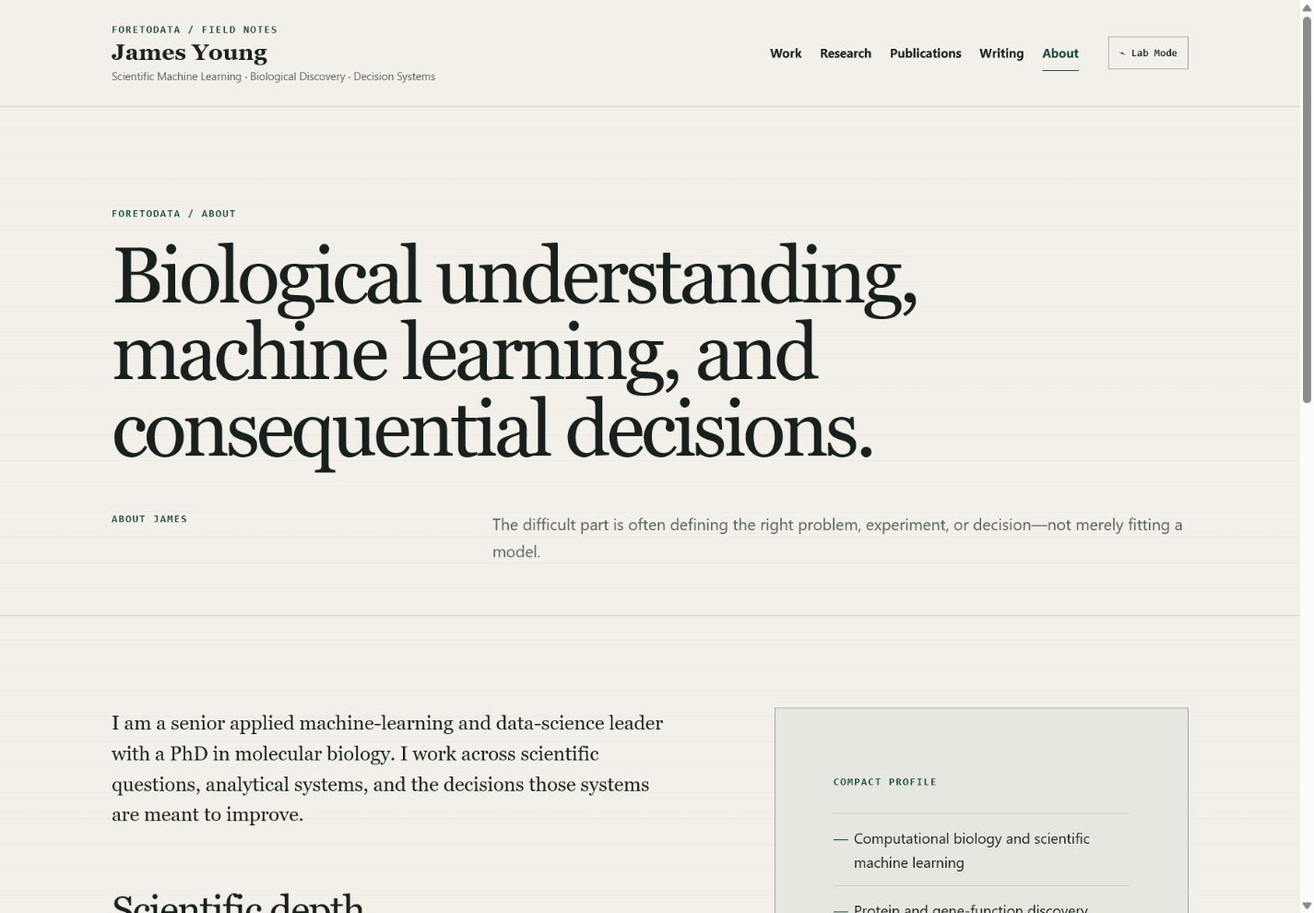
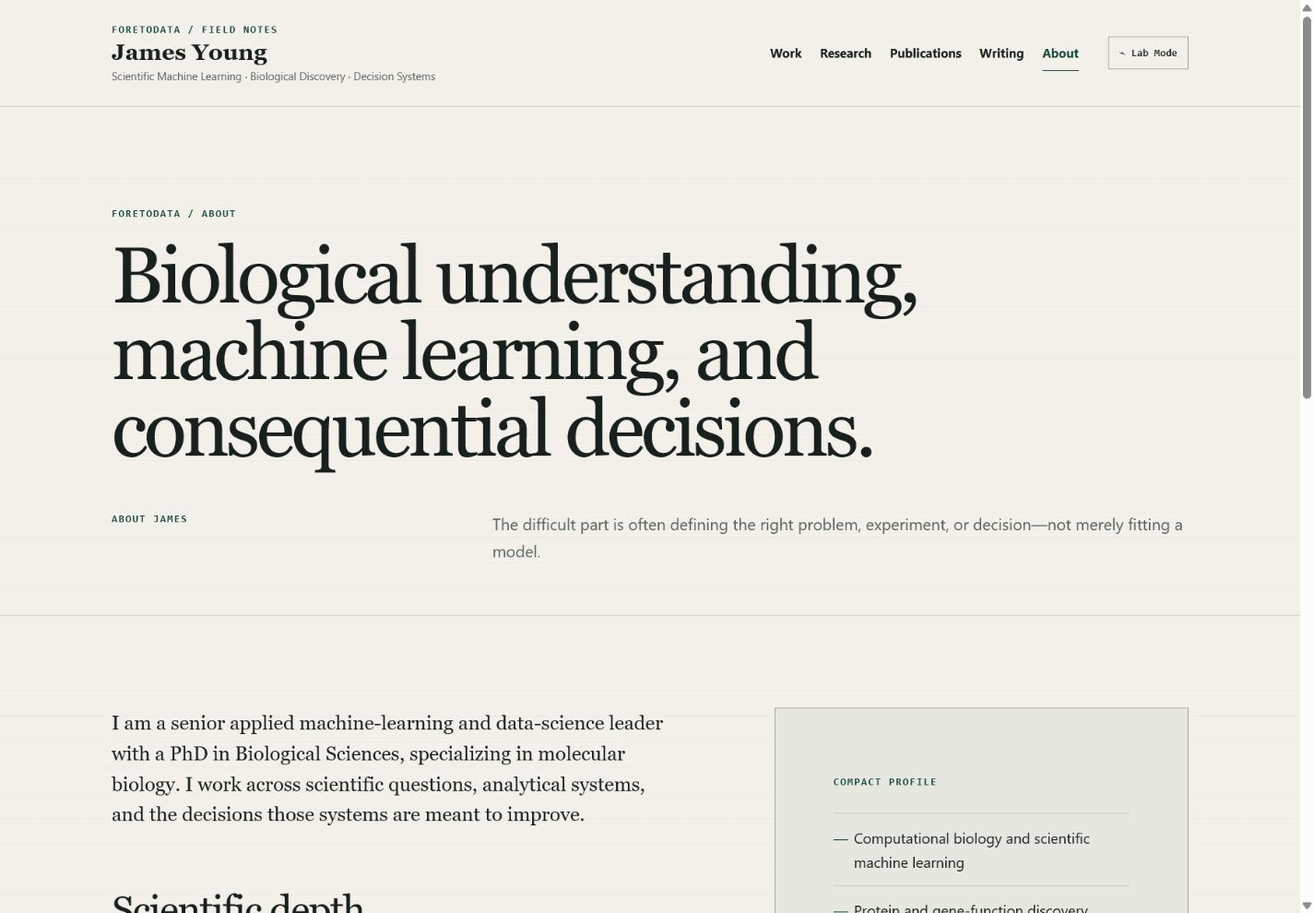
Resolve content review and refresh publication record

Changed region(s): [[0.0926, 0.8182, 0.494, 0.9091]]

diff --git a/src/data/site.ts b/src/data/site.ts
@@ -34,7 +34,7 @@ export const caseStudies: CaseStudy[] = [
       'Structured outputs as a ranked, reviewable set of hypotheses for downstream validation planning.',
     ],
     outcome: 'The work produced a published, reproducible framework for prioritizing FOX gene candidates and distinguishing model evidence from experimental validation.',
-    role: 'James led data curation, machine-learning methodology, software development, formal analysis, visualization, and the initial manuscript draft, working with biological collaborators on interpretation and review.',
+    role: 'James led data curation, machine-learning methodology, software development, formal analysis, and the initial manuscript draft, and contributed to visualization and biological interpretation.',
     evidence: {
       label: 'Scientific Reports 16, 11412 (2026)',
       href: 'https://doi.org/10.1038/s41598-026-41873-w',
@@ -59,8 +59,12 @@ export const caseStudies: CaseStudy[] = [
       'Framed each round around which variants would be most informative to test next.',
       'Kept the computational ranking connected to practical validation planning.',
     ],
-    outcome: 'The resulting workflow provides a structured way to move from sequence representations to a prioritized experimental set. The associated manuscript remains under revision; the site does not imply completed experimental validation.',
-    role: 'James developed the scientific-machine-learning framing and candidate-prioritization workflow with research collaborators.',
+    outcome: 'The resulting workflow provides a structured way to move from sequence representations to a prioritized experimental set. The work was published in AI Chemistry in 2026.',
+    role: 'James developed the scientific-machine-learning framing and candidate-prioritization workflow.',
+    evidence: {
+      label: 'AI Chemistry 1(2), 7 (2026)',
+      href: 'https://scholar.google.com/citations?view_op=view_citation&hl=en&user=EyrW6pEAAAAJ&citation_for_view=EyrW6pEAAAAJ:ufrVoPGSRksC',
+    },
     featured: true,
   },
   {
@@ -81,8 +85,8 @@ export const caseStudies: CaseStudy[] = [
       'Connected computational outputs to candidate prioritization and experimental translation.',
       'Identified feasibility risks and practical next steps without overstating certainty.',
     ],
-    outcome: 'Engagements support technical strategy, method review, and experimental prioritization. Specific clients, systems, and results are intentionally not disclosed.',
-    role: 'James served as an independent scientific and technical advisor on narrowly scoped questions.',
+    outcome: 'This work has supported technical strategy, method review, and experimental prioritization. Specific clients, systems, and results are not disclosed.',
+    role: 'James has served as an independent scientific and technical advisor on narrowly scoped questions.',
     confidentiality: 'Representative work is summarized at a high level. Details and results have been generalized to protect confidential information.',
     featured: true,
   },
@@ -113,10 +117,8 @@ export const caseStudies: CaseStudy[] = [
 
 export type Publication = {
   title: string;
-  authors: string;
   citation: string;
   href?: string;
-  note?: string;
 };
 
 export const publicationPrograms: { id: string; title: string; description: string; publications: Publication[] }[] = [
@@ -127,39 +129,52 @@ export const publicationPrograms: { id: string; title: string; description: stri
     publications: [
       {
         title: 'Predicting FOX gene candidates for oxic nitrogen fixation using multi-omic machine learning and comparative bioinformatics',
-        authors: 'J Young, L Gu, R Zhou',
-        citation: 'Scientific Reports 16, 11412 (2026)',
+        citation: 'Scientific Reports 16(1), 11412 (2026)',
         href: 'https://doi.org/10.1038/s41598-026-41873-w',
       },
       {
+        title: 'Nitrosomes: protein language modeling and live-cell imaging reveal condensate-like nitrogenase organization in heterocysts',
+        citation: 'bioRxiv 2026.05.23.727275 (2026)',
+        href: 'https://scholar.google.com/citations?view_op=view_citation&hl=en&user=EyrW6pEAAAAJ&citation_for_view=EyrW6pEAAAAJ:LkGwnXOMwfcC',
+      },
+      {
+        title: 'Nitrogen-Responsive Extracellular Proteomics Reveals Evidence for a Novel Heterocyst-Specific Protein Secretion Pathway in Anabaena',
+        citation: 'bioRxiv 2026.06.08.730779 (2026)',
+        href: 'https://scholar.google.com/citations?view_op=view_citation&hl=en&user=EyrW6pEAAAAJ&citation_for_view=EyrW6pEAAAAJ:_FxGoFyzp5QC',
+      },
+      {
+        title: 'Harnessing Nitrogen Fixing Plants for a Bio-Solar Nitrogen Economy',
+        citation: 'Resources, Environment and Sustainability, 100359 (2026)',
+        href: 'https://scholar.google.com/citations?view_op=view_citation&hl=en&user=EyrW6pEAAAAJ&citation_for_view=EyrW6pEAAAAJ:roLk4NBRz8UC',
+      },
+      {
+        title: 'Beyond nif: protein-family modeling reveals the accessory systems of cyanobacterial diazotrophy',
+        citation: 'In submission',
+      },
+      {
         title: 'Secondary Metabolites Predict Diazotrophic Cyanobacteria: A Model-Based Cheminformatic Approach',
-        authors: 'J Young, T Nawaz, L Gu, R Zhou',
         citation: 'Metabolites 15(9), 562 (2025)',
         href: 'https://doi.org/10.3390/metabo15090562',
       },
       {
         title: 'Discovery of Photosynthetic Oxic N₂-Fixation in Cyanobacteria Using Wet Lab and Machine Learning Approaches',
-        authors: 'J Young',
-        citation: 'PhD dissertation, South Dakota State University',
+        citation: 'PhD dissertation, South Dakota State University (2025)',
         href: 'https://openprairie.sdstate.edu/etd2/1717',
       },
       {
-        title: 'Unicellular Cyanobacteria Exhibit Light-Driven, Oxygen-Tolerant, Constitutive Nitrogenase Activity Under Continuous Illumination',
-        authors: 'J Young, L Gu, M Hildreth, R Zhou',
-        citation: 'bioRxiv 619353 (2019)',
-        href: 'https://doi.org/10.1101/619353',
-      },
-      {
         title: 'Harnessing Solar-Powered Oxic N₂-fixing Cyanobacteria for the BioNitrogen Economy',
-        authors: 'J Young, L Gu, W Gibbons, R Zhou',
         citation: 'Cyanobacteria Biotechnology, Wiley-VCH, 407–439 (2021)',
         href: 'https://doi.org/10.1002/9783527824908.ch13',
       },
       {
-        title: 'Predictive Pangenomics Prioritizes Gene Families Associated with Oxic Nitrogen Fixation in Cyanobacteria',
-        authors: 'J Young, S Aryal, D Nelson, EZ Gnimpieba, R Zhou',
-        citation: 'Manuscript in preparation',
-        note: 'Status carried forward from the existing site and should be reconfirmed before publication.',
+        title: 'Unicellular Cyanobacteria Exhibit Light-Driven, Oxygen-Tolerant, Constitutive Nitrogenase Activity Under Continuous Illumination',
+        citation: 'bioRxiv 619353 (2019)',
+        href: 'https://doi.org/10.1101/619353',
+      },
+      {
+        title: 'Identification of Cell Surface Sugars in N₂-Fixing Cyanobacterium Cyanothece ATCC 51142 Using Fluorescein Labeled Lectins',
+        citation: 'Proceedings of the South Dakota Academy of Science 97 (2018)',
+        href: 'https://scholar.google.com/citations?view_op=view_citation&hl=en&user=EyrW6pEAAAAJ&citation_for_view=EyrW6pEAAAAJ:u5HHmVD_uO8C',
       },
     ],
   },
@@ -170,9 +185,8 @@ export const publicationPrograms: { id: string; title: string; description: stri
     publications: [
       {
         title: 'Active Learning on Protein Language Model Embeddings Accelerates Rubisco Variant Discovery for Desired Traits',
-        authors: 'J Young, L Gu, R Zhou',
-        citation: 'Manuscript in revision',
-        note: 'Status carried forward from the existing site and should be reconfirmed before publication.',
+        citation: 'AI Chemistry 1(2), 7 (2026)',
+        href: 'https://scholar.google.com/citations?view_op=view_citation&hl=en&user=EyrW6pEAAAAJ&citation_for_view=EyrW6pEAAAAJ:ufrVoPGSRksC',
       },
     ],
   },
@@ -183,12 +197,11 @@ export const publicationPrograms: { id: string; title: string; description: stri
     publications: [
       {
         title: 'Chromosome-level genome assembly of the Chinese three-keeled pond turtle (Mauremys reevesii) provides insights into freshwater adaptation',
-        authors: 'J Liu, K Zheng, S Liu, L Gu, J Young, Z Wang, Y Qiu, S Gu, L Xiong, R Zhou, L Nie',
         citation: 'Molecular Ecology Resources 22(4), 1596–1605 (2022)',
+        href: 'https://scholar.google.com/citations?view_op=view_citation&hl=en&user=EyrW6pEAAAAJ&citation_for_view=EyrW6pEAAAAJ:zYLM7Y9cAGgC',
       },
       {
         title: 'Crowdsourcing assessment of maternal blood multi-omics for predicting gestational age and preterm birth',
-        authors: 'AL Tarca, BÁ Pataki, R Romero, et al. (J Young, consortium author)',
         citation: 'Cell Reports Medicine 2(6) (2021)',
         href: 'https://doi.org/10.1016/j.xcrm.2021.100323',
       },

diff --git a/CONTENT_REVIEW.md b/CONTENT_REVIEW.md
@@ -1,33 +1,50 @@
 # Non-public content review
 
-This file is not imported by the site and is not copied to `public/`. Items are ordered roughly by publication risk.
+This file is not imported by the site and is not copied to `public/`. James reviewed the flagged items in conversation on 2026-07-11. The table records the resulting decisions.
 
-| Page | Component or file | Exact statement | Why it may be sensitive | Risk category | Recommended safer alternative or action |
-| --- | --- | --- | --- | --- | --- |
-| Original homepage (removed) | Removed `src/components/FilterToggle.jsx` | “Built standardized targeting models prescribing omnichannel HCP engagement and resource allocation across pharmaceutical brands at Pfizer and UCB.” | Named employers, brands, and system purpose could imply endorsement or expose internal work. | Employer confidentiality; employer endorsement implication; current employment conflict | Keep the replacement generalized: “professional experience connecting targeting, forecasting, causal inference, measurement, and resource allocation to operational workflows.” |
-| Original homepage (removed) | Removed `src/components/FilterToggle.jsx` | “5–10% lift at plan attainment” and “Multi-brand deployment” | Numerical commercial outcomes were unattributed and not independently supported in the repository. | Unsupported metric; employer confidentiality | Do not republish without written approval, scope, attribution, and defensible evidence. |
-| Original homepage (removed) | Removed `src/components/FilterToggle.jsx` | “30–50% error reduction vs. field forecasts” and “Days → hours runtime” | Employer-specific performance claims lacked public evidence and context. | Unsupported metric; employer confidentiality | Retain only generalized forecasting and implementation experience. |
-| Original homepage (removed) | Removed `src/components/FilterToggle.jsx` | “~10 hrs/week freed” | Quantified productivity outcome was not attributed or documented. | Unsupported metric; employer confidentiality | Omit the number; describe automation capability only if future approval supports it. |
-| Original About (removed) | Prior `src/pages/about.astro` | “work that contributed to a $7M NSF grant” | Contribution and causal wording could overstate James’s role in a funded award. | Credential verification; employer endorsement implication | The redesign omits the amount. If restored, identify the award, principal investigators, and James’s documented role precisely. |
-| Homepage and About | `src/pages/index.astro`, `src/pages/about.astro` | “PhD-trained molecular biologist” / “I am … a senior applied machine-learning and data-science leader with a PhD in molecular biology.” | Public credential and seniority language should match the preferred résumé and current title. | Credential verification | Confirm exact degree field and preferred public seniority wording before merge. |
-| Homepage | `src/pages/index.astro` | “Peer-reviewed computational biology” | Accurate only if listed publication statuses and authorship are current. | Credential verification; publication-status verification | Keep after final publication record review; otherwise use “computational biology research.” |
-| Nitrogen-fixation case | `src/data/site.ts` | “James led data curation, machine-learning methodology, software development, formal analysis, visualization, and the initial manuscript draft…” | Role detail should match the published contribution statement and collaborator expectations. | Credential verification; collaborator attribution | Compare verbatim with the final Scientific Reports contribution statement before publishing. |
-| Publications | `src/data/site.ts` | “Scientific Reports 16, 11412 (2026)” | Updated from the stale “Article in Press” label using the publisher’s version of record. | Publication-status verification | Retain; verify once more immediately before merge. |
-| Rubisco case and Publications | `src/data/site.ts` | “The associated manuscript remains under revision” / “Manuscript in revision” | Manuscript status can change and may be confidential before submission or acceptance. | Publication-status verification; intellectual-property ambiguity | Reconfirm status and whether the title may be public. If uncertain, label as “ongoing research” without a manuscript claim. |
-| Publications | `src/data/site.ts` | “Predictive Pangenomics … Manuscript in preparation” | In-preparation status and title can become stale or expose unpublished work. | Publication-status verification; intellectual-property ambiguity | Reconfirm title, author list, and public status or move it to a private CV. |
-| Independent advisory case | `src/data/site.ts` | “James served as an independent scientific and technical advisor on narrowly scoped questions.” | Could conflict with employer policy or imply current availability. | Consulting availability; current employment conflict; client confidentiality | Confirm outside-work approval and keep the existing limited, conflict-aware wording. |
-| Independent advisory case | `src/data/site.ts` | “Engagements support technical strategy, method review, and experimental prioritization.” | Even generalized scope may reveal client work categories. | Client confidentiality; intellectual-property ambiguity | Obtain confirmation that these categories are safe; otherwise shorten to “select scientific and technical questions.” |
-| Homepage and About | `src/pages/index.astro`, `src/pages/about.astro` | “I keep outside engagements limited and avoid work that creates professional or intellectual-property conflicts. Relevant introductions are welcome.” | Expresses availability and should align with current employment policy. | Consulting availability; current employment conflict | Retain only after policy review; otherwise end after the conflict-avoidance sentence or remove the section temporarily. |
-| Decision-systems case | `src/data/site.ts` | “professional experience connecting targeting, forecasting, causal inference, measurement, and resource allocation to operational workflows” | The combination may still let colleagues infer specific internal platforms. | Employer confidentiality; intellectual-property ambiguity | Keep employer names, product names, metrics, and system details omitted. Review with a current-employment lens. |
-| About | `src/pages/about.astro` | “Commercial-pharma analytics is presented here as professional experience, not as an external consulting service.” | The disclaimer is protective but confirms the industry area. | Current employment conflict | Retain if accurate; otherwise remove industry specificity and say “employer work is not offered as an external service.” |
-| Publications | `src/data/site.ts` | Author lists and publication group assignments | Author order, consortium status, and publication metadata must remain exact. | Publication-status verification; credential verification | Compare every entry with DOI landing pages or an approved CV before publishing. |
-| Original Publications (not carried forward) | Prior `src/pages/publications.astro` | Honors including “Scientific Communication Fellowship,” “Grant Writing Competition Winner,” and “3 Minute Thesis Competition Winner” | No dates or public evidence were present in the repository. | Credential verification | Keep omitted unless an approved CV provides exact names, dates, and awarding bodies. |
+| Review area | Decision | Resolution in the site |
+| --- | --- | --- |
+| Degree and seniority | Approved: “A senior applied machine-learning and data-science leader with a PhD in Biological Sciences, specializing in molecular biology.” | Exact wording now appears on About; the homepage credential summary uses “PhD in Biological Sciences.” |
+| Scientific Reports contribution wording | Keep the role concise without naming or emphasizing individual collaborators. | The case study says James led data curation, methodology, software, formal analysis, and the initial manuscript draft, and contributed to visualization and biological interpretation. |
+| Rubisco title and status | Title may be public; the work is published. Author lines are unnecessary on the portfolio. | Updated to `AI Chemistry 1(2), 7 (2026)` with a scholarly-record link. The case study no longer calls it a manuscript in revision. |
+| Pangenomics title and status | Replace the prior working title with “Beyond nif: protein-family modeling reveals the accessory systems of cyanobacterial diazotrophy”; status is “In submission.” | Updated in the functional-discovery publication program. Recheck the status immediately before any later production publication because submission state can change. |
+| Publication authors | Do not list author lines on individual entries; readers can inspect the linked record. | Removed authors from the public publication data model and page presentation. |
+| Publication record | Use the current Google Scholar record supplied by James. | Added the 2026 AI Chemistry paper, two 2026 bioRxiv records, the 2026 Resources, Environment and Sustainability paper, and the 2018 Proceedings record; retained and corrected the existing publication entries. |
+| Independent advisory tense | Prefer historical/experience-based language such as “I have advised,” without aggressively announcing availability or listing prohibitions. | Homepage and About now say James has advised biotechnology and research teams. The direct “Relevant introductions are welcome” and strong conflict disclaimer were replaced with neutral relationship-and-scope language. |
+| Advisory scope | Structural biology, scientific ML, technical strategy, method review, candidate prioritization, model evaluation, experimental translation, and feasibility assessment are acceptable. | Existing generalized scope remains. Client identities, metrics, systems, and results remain omitted. |
+| Decision-systems framing | Approved. | Retained the generalized targeting, forecasting, causal inference, measurement, resource-allocation, and operational-workflow language. |
+| Commercial-pharma disclaimer | Unnecessary. | Removed from About rather than replacing it with another defensive disclaimer. |
+| Employer-specific claims | Keep removed. | Pfizer, UCB, NetApp, employer systems, brand references, and internal-platform descriptions remain absent from public work records. |
+| Unsupported metrics | Keep removed. | “5–10% lift,” “30–50% error reduction,” “Days → hours,” and “~10 hrs/week freed” remain absent. |
+| NSF award amount | Keep removed. | The ambiguous “contributed to a $7M NSF grant” statement remains absent. |
+| Employer names | Keep omitted. | Professional experience is described through transferable problem types rather than an employer résumé. |
+| Honors | Verified by James but strategically unnecessary in the current positioning. | Scientific Communication Fellowship, Grant Writing Competition Winner, 3 Minute Thesis Competition Winner, and departmental fellowship remain omitted. |
 
-## Review priority
+## Current publication record represented on the site
 
-1. Current-employment and outside-work policy review.
-2. Rubisco and pangenomics manuscript status/title review.
-3. Final publication metadata and contribution-statement review.
-4. Preferred public seniority and degree wording.
-5. Whether any employer names should be restored in a separately approved résumé component.
+### Functional discovery and nitrogen fixation
+
+- Predicting FOX gene candidates for oxic nitrogen fixation using multi-omic machine learning and comparative bioinformatics — *Scientific Reports* 16(1), 11412 (2026)
+- Nitrosomes: protein language modeling and live-cell imaging reveal condensate-like nitrogenase organization in heterocysts — bioRxiv (2026)
+- Nitrogen-Responsive Extracellular Proteomics Reveals Evidence for a Novel Heterocyst-Specific Protein Secretion Pathway in *Anabaena* — bioRxiv (2026)
+- Harnessing Nitrogen Fixing Plants for a Bio-Solar Nitrogen Economy — *Resources, Environment and Sustainability*, 100359 (2026)
+- Beyond nif: protein-family modeling reveals the accessory systems of cyanobacterial diazotrophy — in submission
+- Secondary Metabolites Predict Diazotrophic Cyanobacteria: A Model-Based Cheminformatic Approach — *Metabolites* 15(9), 562 (2025)
+- Discovery of Photosynthetic Oxic N₂-Fixation in Cyanobacteria Using Wet Lab and Machine Learning Approaches — PhD dissertation (2025)
+- Harnessing Solar-Powered Oxic N₂-fixing Cyanobacteria for the BioNitrogen Economy — *Cyanobacteria Biotechnology* (2021)
+- Unicellular Cyanobacteria Exhibit Light-Driven, Oxygen-Tolerant, Constitutive Nitrogenase Activity Under Continuous Illumination — bioRxiv (2019)
+- Identification of Cell Surface Sugars in N₂-Fixing Cyanobacterium *Cyanothece* ATCC 51142 Using Fluorescein Labeled Lectins — *Proceedings of the South Dakota Academy of Science* 97 (2018)
+
+### Protein learning and engineering
+
+- Active Learning on Protein Language Model Embeddings Accelerates Rubisco Variant Discovery for Desired Traits — *AI Chemistry* 1(2), 7 (2026)
+
+### Comparative genomics and broader computational biology
+
+- Chromosome-level genome assembly of the Chinese three-keeled pond turtle (*Mauremys reevesii*) provides insights into freshwater adaptation — *Molecular Ecology Resources* 22(4), 1596–1605 (2022)
+- Crowdsourcing assessment of maternal blood multi-omics for predicting gestational age and preterm birth — *Cell Reports Medicine* 2(6) (2021)
+
+## Remaining publication-time check
+
+Only one volatile item remains: reconfirm whether “Beyond nif” is still “In submission” immediately before merging or deploying. No other content decision from this review remains open.
 

diff --git a/REDESIGN_NOTES.md b/REDESIGN_NOTES.md
@@ -73,7 +73,7 @@ The mode does not maintain separate case-study content. It reads the same data a
 
 - Nitrogen fixation is the flagship application inside a broader functional-discovery program.
 - The FOX gene work is presented as computational prioritization with a published evidence link, not as completed experimental validation.
-- Rubisco active learning is described as a workflow; the manuscript status remains explicitly marked for verification.
+- Rubisco active learning is described as a workflow and linked to its 2026 publication in *AI Chemistry*.
 - Independent advisory work is generalized, client-free, metric-free, and framed around scientific judgment and feasibility.
 - Employer-specific commercial systems and outcomes were removed from public case-study copy. Decision systems are presented as transferable professional experience, not an offered pharma consulting service.
 - No inquiry form or scheduling tool was added; LinkedIn remains the contact path.
@@ -98,12 +98,12 @@ Review captures are stored outside the public site at `review/screenshots/`:
 
 Captures use 1440×1000 and 390×844 viewports and record the first viewport of each page.
 
-## Known limitations and content decisions still needed
+## Known limitations and content decisions
 
-- Reconfirm the current status of the Rubisco active-learning and predictive-pangenomics manuscripts before publication.
-- Confirm the preferred public wording for seniority and the molecular-biology PhD credential.
-- Confirm the public description of independent work against current employment and intellectual-property policies.
-- Decide whether professional employer names should remain absent or appear in a future approved résumé component.
+- Reconfirm whether “Beyond nif: protein-family modeling reveals the accessory systems of cyanobacterial diazotrophy” is still in submission immediately before any production publication.
+- James approved the seniority and degree wording: “A senior applied machine-learning and data-science leader with a PhD in Biological Sciences, specializing in molecular biology.”
+- Independent work now uses experience-based “I have advised” language and avoids overt availability or defensive disclaimers.
+- Employer names, unsupported performance metrics, the NSF award amount, and honors remain omitted as deliberate positioning decisions.
 - The browser automation surface could not synthesize a reliable end-to-end Tab sequence, so a short manual keyboard pass is still recommended before merge.
 - External publisher sites sometimes reject automated HEAD requests even when DOI redirects are valid; those links should receive a final human click-through review.
 
@@ -112,4 +112,3 @@ Captures use 1440×1000 and 390×844 viewports and record the first viewport of 
 Stage 2 can add a discreet Advisory page, approved evidence, defined problem categories, and a restrained inquiry form without changing the primary content model. The current `Scientific ML advisory` domain can feed that page.
 
 Stage 3 can elevate ForetoData to the primary brand, add a team or specialist network, and expand institutional capabilities only after the organization exists. The current separation between person identity, platform label, shared work data, and routes supports that evolution without implying it today.
-

diff --git a/QA_REPORT.md b/QA_REPORT.md
@@ -1,6 +1,6 @@
 # ForetoData redesign QA report
 
-Review date: 2026-07-10 (America/New_York)
+Review date: 2026-07-11 (America/New_York)
 
 ## Build, type-check, lint, and tests
 
@@ -28,6 +28,7 @@ External references were checked with concurrent HTTP requests and targeted brow
 - Wiley and MDPI DOI destinations rejected automated HEAD requests with 403 after a valid redirect; retain for human click-through review.
 - LinkedIn rejects HEAD with 405 but remains the existing public profile URL.
 - The bioRxiv DOI could not be conclusively checked by the automated client; retain for manual review.
+- All newly supplied Google Scholar publication-record links returned HTTP 200 during the 2026-07-11 content update.
 
 ## Mobile and responsive review
 
@@ -83,7 +84,7 @@ Fix applied: replaced generic accomplishment filters with scientific questions a
 
 The research identity is coherent around functional discovery in undercharacterized microbial systems. Nitrogen fixation is explicitly a flagship application rather than the whole identity. Computational prioritization is distinguished from experimental validation. Publications are grouped by program, and unpublished statuses are marked for review.
 
-Fix applied: removed illustrative enzyme-performance metrics and avoided claims of completed Rubisco validation.
+Fix applied: removed illustrative enzyme-performance metrics. The Rubisco workflow now links to its 2026 *AI Chemistry* publication without implying additional experimental results beyond the scholarly record.
 
 ### Investor or attorney
 
@@ -101,7 +102,7 @@ Fix applied: the About page now distinguishes professional experience from exter
 
 No employer endorsement is implied in the redesigned public copy. Internal platforms, brands, and commercial results are absent. Consulting language is limited, conflict-aware, and biotechnology/research focused.
 
-Remaining concern: current outside-work policy and the exact independent-work wording require James’s review before publication.
+Resolution: James approved the advisory scope and requested historical, experience-based language. The site now says “I have advised,” omits overt availability language, and avoids a defensive commercial-pharma disclaimer.
 
 ## Screenshots
 
@@ -109,7 +110,7 @@ Fourteen non-public review captures are stored in `review/screenshots/`, with de
 
 ## Remaining limitations
 
-- Manuscript titles and statuses can change and require final owner confirmation.
+- The “Beyond nif” submission status can change and requires a final owner confirmation immediately before production publication.
 - Automated external checks cannot prove that bot-protected publisher pages work in every user browser.
 - Browser review covered one representative desktop and mobile viewport rather than a device matrix.
 - A manual keyboard traversal and screen-reader spot check are still recommended before merge.
